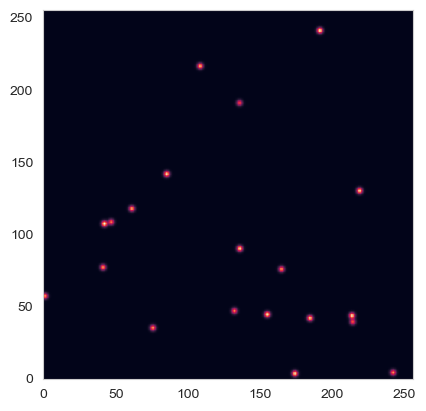
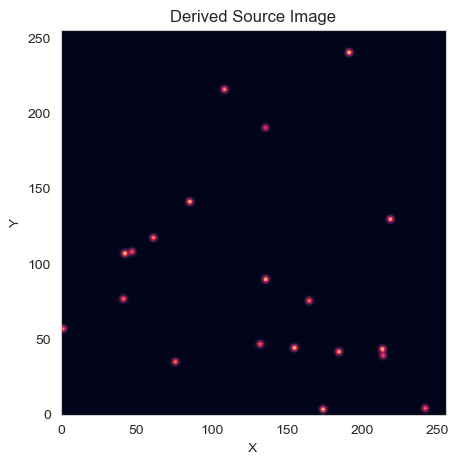
clean up code and plots a bit

diff --git a/CU-Boulder/AstroPhys/HW/hw5/hw5.html b/CU-Boulder/AstroPhys/HW/hw5/hw5.html
@@ -492,31 +492,30 @@ for n = 0, npts-1 do h_im(n) = -total(h*sin(jarr*n*2*!dpi/npts))</code></pre>
 <h2 class="anchored" data-anchor-id="part-d-1">Part (d)</h2>
 <p>Perform a DFT on the blurred image line by line in <span class="math inline">\(y\)</span>. Be careful here. One must perform 256 DFTs; one for each position in <span class="math inline">\(y\)</span>. I recommend finding a <span class="math inline">\(y\)</span> value a star and testing your code.</p>
 <p><span class="math display">\[\tilde{I}_{\text{Blur}}(n,y)=\displaystyle \sum_{j=0}^{N-1}I_{\text{Blur}}(j,y)e^{-i2\pi n j/N}\]</span></p>
-<div id="cell-37" class="cell" data-execution_count="125">
+<div id="cell-37" class="cell" data-execution_count="22">
 <div class="sourceCode cell-code" id="cb41"><pre class="sourceCode python code-with-copy"><code class="sourceCode python"><span id="cb41-1"><a href="#cb41-1" aria-hidden="true" tabindex="-1"></a><span class="co"># Perform DFT on Blurred Image</span></span>
-<span id="cb41-2"><a href="#cb41-2" aria-hidden="true" tabindex="-1"></a></span>
-<span id="cb41-3"><a href="#cb41-3" aria-hidden="true" tabindex="-1"></a>bi_fft <span class="op">=</span> []</span>
-<span id="cb41-4"><a href="#cb41-4" aria-hidden="true" tabindex="-1"></a><span class="cf">for</span> i <span class="kw">in</span> I_blur:</span>
-<span id="cb41-5"><a href="#cb41-5" aria-hidden="true" tabindex="-1"></a>    bi_fft.append(dft(i))</span>
-<span id="cb41-6"><a href="#cb41-6" aria-hidden="true" tabindex="-1"></a></span>
-<span id="cb41-7"><a href="#cb41-7" aria-hidden="true" tabindex="-1"></a>bi_fft <span class="op">=</span> np.array(bi_fft)</span></code><button title="Copy to Clipboard" class="code-copy-button"><i class="bi"></i></button></pre></div>
+<span id="cb41-2"><a href="#cb41-2" aria-hidden="true" tabindex="-1"></a>bi_fft <span class="op">=</span> []</span>
+<span id="cb41-3"><a href="#cb41-3" aria-hidden="true" tabindex="-1"></a><span class="cf">for</span> i <span class="kw">in</span> I_blur:</span>
+<span id="cb41-4"><a href="#cb41-4" aria-hidden="true" tabindex="-1"></a>    bi_fft.append(dft(i))</span>
+<span id="cb41-5"><a href="#cb41-5" aria-hidden="true" tabindex="-1"></a></span>
+<span id="cb41-6"><a href="#cb41-6" aria-hidden="true" tabindex="-1"></a>bi_fft <span class="op">=</span> np.array(bi_fft)</span></code><button title="Copy to Clipboard" class="code-copy-button"><i class="bi"></i></button></pre></div>
 </div>
-<div id="cell-38" class="cell" data-execution_count="126">
+<div id="cell-38" class="cell" data-execution_count="23">
 <div class="sourceCode cell-code" id="cb42"><pre class="sourceCode python code-with-copy"><code class="sourceCode python"><span id="cb42-1"><a href="#cb42-1" aria-hidden="true" tabindex="-1"></a>bi_fft.shape</span></code><button title="Copy to Clipboard" class="code-copy-button"><i class="bi"></i></button></pre></div>
-<div class="cell-output cell-output-display" data-execution_count="126">
+<div class="cell-output cell-output-display" data-execution_count="23">
 <pre><code>(256, 256)</code></pre>
 </div>
 </div>
-<div id="cell-39" class="cell" data-execution_count="127">
+<div id="cell-39" class="cell" data-execution_count="32">
 <div class="sourceCode cell-code" id="cb44"><pre class="sourceCode python code-with-copy"><code class="sourceCode python"><span id="cb44-1"><a href="#cb44-1" aria-hidden="true" tabindex="-1"></a><span class="co"># Check if inverse DFT matches original I_blur</span></span>
 <span id="cb44-2"><a href="#cb44-2" aria-hidden="true" tabindex="-1"></a>bi_ifft <span class="op">=</span> []</span>
 <span id="cb44-3"><a href="#cb44-3" aria-hidden="true" tabindex="-1"></a><span class="cf">for</span> i <span class="kw">in</span> bi_fft:</span>
 <span id="cb44-4"><a href="#cb44-4" aria-hidden="true" tabindex="-1"></a>    bi_ifft.append(dft(i,inverse<span class="op">=</span><span class="va">True</span>))</span>
 <span id="cb44-5"><a href="#cb44-5" aria-hidden="true" tabindex="-1"></a></span>
 <span id="cb44-6"><a href="#cb44-6" aria-hidden="true" tabindex="-1"></a>bi_ifft <span class="op">=</span> np.array(bi_ifft)</span>
-<span id="cb44-7"><a href="#cb44-7" aria-hidden="true" tabindex="-1"></a>np.allclose(bi_ifft.real,I_blur)</span></code><button title="Copy to Clipboard" class="code-copy-button"><i class="bi"></i></button></pre></div>
-<div class="cell-output cell-output-display" data-execution_count="127">
-<pre><code>True</code></pre>
+<span id="cb44-7"><a href="#cb44-7" aria-hidden="true" tabindex="-1"></a><span class="bu">print</span>(<span class="st">"reverse DFT matches original blurred image:"</span>,np.allclose(bi_ifft.real,I_blur))</span></code><button title="Copy to Clipboard" class="code-copy-button"><i class="bi"></i></button></pre></div>
+<div class="cell-output cell-output-stdout">
+<pre><code>reverse DFT matches original blurred image: True</code></pre>
 </div>
 </div>
 </section>
@@ -529,16 +528,16 @@ for n = 0, npts-1 do h_im(n) = -total(h*sin(jarr*n*2*!dpi/npts))</code></pre>
 <section id="jk-note-to-self" class="level3">
 <h3 class="anchored" data-anchor-id="jk-note-to-self">JK Note to self</h3>
 <p><span class="math inline">\(\tilde{h}^*(n)\)</span> is the complex conjugate <span class="math inline">\(\tilde{h}(n)\)</span>. (Which can simply be calculated with <code>np.conjugate()</code> in Python)</p>
-<div id="cell-42" class="cell" data-execution_count="164">
+<div id="cell-42" class="cell" data-execution_count="25">
 <div class="sourceCode cell-code" id="cb46"><pre class="sourceCode python code-with-copy"><code class="sourceCode python"><span id="cb46-1"><a href="#cb46-1" aria-hidden="true" tabindex="-1"></a>I_source_FT <span class="op">=</span> []</span>
 <span id="cb46-2"><a href="#cb46-2" aria-hidden="true" tabindex="-1"></a><span class="cf">for</span> i <span class="kw">in</span> bi_fft:</span>
 <span id="cb46-3"><a href="#cb46-3" aria-hidden="true" tabindex="-1"></a>    I_source_FT.append(i<span class="op">*</span>np.conjugate(TransFunc_dft)<span class="op">/</span>(<span class="bu">abs</span>(TransFunc_dft)<span class="op">**</span><span class="dv">2</span>))</span>
 <span id="cb46-4"><a href="#cb46-4" aria-hidden="true" tabindex="-1"></a></span>
 <span id="cb46-5"><a href="#cb46-5" aria-hidden="true" tabindex="-1"></a>I_source_FT <span class="op">=</span> np.array(I_source_FT)</span></code><button title="Copy to Clipboard" class="code-copy-button"><i class="bi"></i></button></pre></div>
 </div>
-<div id="cell-43" class="cell" data-execution_count="165">
+<div id="cell-43" class="cell" data-execution_count="26">
 <div class="sourceCode cell-code" id="cb47"><pre class="sourceCode python code-with-copy"><code class="sourceCode python"><span id="cb47-1"><a href="#cb47-1" aria-hidden="true" tabindex="-1"></a>I_source_FT.shape</span></code><button title="Copy to Clipboard" class="code-copy-button"><i class="bi"></i></button></pre></div>
-<div class="cell-output cell-output-display" data-execution_count="165">
+<div class="cell-output cell-output-display" data-execution_count="26">
 <pre><code>(256, 256)</code></pre>
 </div>
 </div>
@@ -548,7 +547,7 @@ for n = 0, npts-1 do h_im(n) = -total(h*sin(jarr*n*2*!dpi/npts))</code></pre>
 <h2 class="anchored" data-anchor-id="part-f">Part (f)</h2>
 <p>Perform a reverse DFT on <span class="math inline">\(\tilde{I}_{Source}\)</span>. Plot your results. The image should be close but not exactly equal to the source image plotted above.</p>
 <p><strong>Hint:</strong> The most common error is in reconstructing <span class="math inline">\(\tilde{I}_{\text{Source}}\)</span>. Check your reverse DFT by deriving <span class="math inline">\(h\)</span> from <span class="math inline">\(\tilde{h}\)</span>.</p>
-<div id="cell-45" class="cell" data-execution_count="166">
+<div id="cell-45" class="cell" data-execution_count="27">
 <div class="sourceCode cell-code" id="cb49"><pre class="sourceCode python code-with-copy"><code class="sourceCode python"><span id="cb49-1"><a href="#cb49-1" aria-hidden="true" tabindex="-1"></a><span class="co"># Check reverse DFT</span></span>
 <span id="cb49-2"><a href="#cb49-2" aria-hidden="true" tabindex="-1"></a>h <span class="op">=</span> dft(TransFunc_dft,inverse<span class="op">=</span><span class="va">True</span>)</span>
 <span id="cb49-3"><a href="#cb49-3" aria-hidden="true" tabindex="-1"></a></span>
@@ -557,7 +556,7 @@ for n = 0, npts-1 do h_im(n) = -total(h*sin(jarr*n*2*!dpi/npts))</code></pre>
 <pre><code>Inverse DFT of h matches original Tranfer Function: True</code></pre>
 </div>
 </div>
-<div id="cell-46" class="cell" data-execution_count="167">
+<div id="cell-46" class="cell" data-execution_count="28">
 <div class="sourceCode cell-code" id="cb51"><pre class="sourceCode python code-with-copy"><code class="sourceCode python"><span id="cb51-1"><a href="#cb51-1" aria-hidden="true" tabindex="-1"></a><span class="co"># Reverse DFT</span></span>
 <span id="cb51-2"><a href="#cb51-2" aria-hidden="true" tabindex="-1"></a>I_source <span class="op">=</span> []</span>
 <span id="cb51-3"><a href="#cb51-3" aria-hidden="true" tabindex="-1"></a><span class="cf">for</span> i <span class="kw">in</span> I_source_FT:</span>
@@ -565,16 +564,20 @@ for n = 0, npts-1 do h_im(n) = -total(h*sin(jarr*n*2*!dpi/npts))</code></pre>
 <span id="cb51-5"><a href="#cb51-5" aria-hidden="true" tabindex="-1"></a>                    </span>
 <span id="cb51-6"><a href="#cb51-6" aria-hidden="true" tabindex="-1"></a>I_source <span class="op">=</span> np.array(I_source)</span></code><button title="Copy to Clipboard" class="code-copy-button"><i class="bi"></i></button></pre></div>
 </div>
-<div id="cell-47" class="cell" data-execution_count="168">
+<div id="cell-47" class="cell" data-execution_count="29">
 <div class="sourceCode cell-code" id="cb52"><pre class="sourceCode python code-with-copy"><code class="sourceCode python"><span id="cb52-1"><a href="#cb52-1" aria-hidden="true" tabindex="-1"></a>I_source.shape</span></code><button title="Copy to Clipboard" class="code-copy-button"><i class="bi"></i></button></pre></div>
-<div class="cell-output cell-output-display" data-execution_count="168">
+<div class="cell-output cell-output-display" data-execution_count="29">
 <pre><code>(256, 256)</code></pre>
 </div>
 </div>
-<div id="cell-48" class="cell" data-execution_count="169">
+<div id="cell-48" class="cell" data-execution_count="34">
 <div class="sourceCode cell-code" id="cb54"><pre class="sourceCode python code-with-copy"><code class="sourceCode python"><span id="cb54-1"><a href="#cb54-1" aria-hidden="true" tabindex="-1"></a><span class="co"># Plot results</span></span>
-<span id="cb54-2"><a href="#cb54-2" aria-hidden="true" tabindex="-1"></a>plt.imshow(<span class="bu">abs</span>(I_source),origin<span class="op">=</span><span class="st">'lower'</span>)</span>
-<span id="cb54-3"><a href="#cb54-3" aria-hidden="true" tabindex="-1"></a>plt.grid(<span class="va">False</span>)</span></code><button title="Copy to Clipboard" class="code-copy-button"><i class="bi"></i></button></pre></div>
+<span id="cb54-2"><a href="#cb54-2" aria-hidden="true" tabindex="-1"></a>plt.figure(figsize<span class="op">=</span>(<span class="dv">5</span>,<span class="dv">5</span>))</span>
+<span id="cb54-3"><a href="#cb54-3" aria-hidden="true" tabindex="-1"></a>plt.imshow(<span class="bu">abs</span>(I_source),origin<span class="op">=</span><span class="st">'lower'</span>)</span>
+<span id="cb54-4"><a href="#cb54-4" aria-hidden="true" tabindex="-1"></a>plt.title(<span class="st">"Derived Source Image"</span>)</span>
+<span id="cb54-5"><a href="#cb54-5" aria-hidden="true" tabindex="-1"></a>plt.xlabel(<span class="st">"X"</span>)</span>
+<span id="cb54-6"><a href="#cb54-6" aria-hidden="true" tabindex="-1"></a>plt.ylabel(<span class="st">"Y"</span>)</span>
+<span id="cb54-7"><a href="#cb54-7" aria-hidden="true" tabindex="-1"></a>plt.grid(<span class="va">False</span>)</span></code><button title="Copy to Clipboard" class="code-copy-button"><i class="bi"></i></button></pre></div>
 <div class="cell-output cell-output-display">
 <div>
 <figure class="figure">
